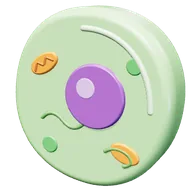
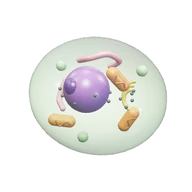
Símbolos modelados en 3D real (11 más): llave española, tuerca, vaso con agua, diván, pelota de terapia, rodillo, liga con agarraderas, tubo de ensayo, célula, megáfono y pincel

diff --git a/datos/simbolos3d/models.js b/datos/simbolos3d/models.js
@@ -21,6 +21,9 @@ export function kit(material,g){
     tube(pts,r,c,o){o=o||{};const v=pts.map(p=>new THREE.Vector3(p[0],p[1],p[2]||0));const path=new THREE.CatmullRomCurve3(v,!!o.closed,'catmullrom',o.tension==null?0.5:o.tension);
       const m=add(new THREE.TubeGeometry(path,Math.max(24,v.length*12),r,18,!!o.closed),c,o.m,o);
       if(!o.closed&&!o.nocap)[v[0],v[v.length-1]].forEach(p=>add(new THREE.SphereGeometry(r,18,12),c,o.m,{p:[p.x,p.y,p.z],parent:o.parent}));return m},
+    shape(outer,holes,depth,c,o){o=o||{};const sh=new THREE.Shape(outer.map(p=>new THREE.Vector2(p[0],p[1])));(holes||[]).forEach(h=>sh.holes.push(new THREE.Path(h.map(p=>new THREE.Vector2(p[0],p[1])))));
+      const bv=o.bevel==null?Math.min(1.5,depth*0.25):o.bevel;const geo=new THREE.ExtrudeGeometry(sh,{depth:depth,bevelEnabled:bv>0,bevelThickness:bv,bevelSize:bv*0.8,bevelSegments:4,curveSegments:24});geo.translate(0,0,-depth/2);return add(geo,c,o.m,o)},
+    cap(r,len,c,o){o=o||{};return add(new THREE.CapsuleGeometry(r,len,8,20),c,o.m,o)},
     // extrusión de un contorno 2D (en coordenadas con y hacia arriba), centrada en z
     ext(d,depth,c,o){o=o||{};const data=new SVGLoader().parse('<svg xmlns="http://www.w3.org/2000/svg"><path transform="scale(1,-1)" d="'+d+'"/></svg>');const shapes=[];data.paths.forEach(p=>SVGLoader.createShapes(p).forEach(s=>shapes.push(s)));
       const bv=o.bevel==null?Math.min(2,depth*0.3):o.bevel;
@@ -31,9 +34,108 @@ export function kit(material,g){
   return K;
 }
 
-const GY='#8C96A0',ST='#A9B6C2',BK='#3A4048',WH='#F3F1EA',RE='#DE4A3C',BL='#3F82C4',GR='#4FAE5B',YE='#F6CD3B',BR='#8A5A36',WO='#B9804B',GO='#E8B53C',NA='#2D4A6E',CR='#F0E2C2',SK='#E7A97C';
+const PU='#8E5BB5';const GY='#8C96A0',ST='#A9B6C2',BK='#3A4048',WH='#F3F1EA',RE='#DE4A3C',BL='#3F82C4',GR='#4FAE5B',YE='#F6CD3B',BR='#8A5A36',WO='#B9804B',GO='#E8B53C',NA='#2D4A6E',CR='#F0E2C2',SK='#E7A97C';
 
+const circ=(cx,cy,r,n,a0,a1)=>{a0=a0==null?0:a0;a1=a1==null?Math.PI*2:a1;const o=[];for(let i=0;i<n;i++){const a=a0+(a1-a0)*i/(n-(Math.abs(a1-a0-Math.PI*2)<1e-6?0:1));o.push([cx+Math.cos(a)*r,cy+Math.sin(a)*r])}return o};
 export const MODELS={
+  // Llave española: boca abierta inclinada 15° arriba, estrella cerrada abajo, mango con rebaje
+  'mecanica.a'(K){
+    const g=K.group({r:[0,0,-40]});
+    K.box(10,50,5,ST,{m:'metal',rad:2.4,parent:g});
+    [2.7,-2.7].forEach(z=>K.box(5,30,0.6,'#8994A0',{m:'metal',p:[0,0,z],rad:0.3,parent:g}));
+    const R=13,w=6.2,a0=Math.acos(w/R);const outer=[];
+    for(let i=0;i<=40;i++){const a=a0-i/40*(Math.PI*2-(Math.PI-2*a0));outer.push([Math.cos(a)*R,Math.sin(a)*R])}
+    outer.push([-w,0]);for(let i=1;i<20;i++){const a=Math.PI+i/20*Math.PI;outer.push([Math.cos(a)*w,Math.sin(a)*w])}outer.push([w,0]);
+    const h1=K.group({p:[0,32,0],r:[0,0,15],parent:g});K.shape(outer,null,5,ST,{m:'metal',bevel:1,parent:h1});
+    K.box(9,10,5,ST,{m:'metal',p:[0,24,0],rad:2,parent:g});
+    const star=[];for(let i=0;i<24;i++){const a=i/24*Math.PI*2;const r=i%2?5.4:6.6;star.push([Math.cos(a)*r,Math.sin(a)*r])}
+    const h2=K.group({p:[0,-32,0],parent:g});K.shape(circ(0,0,11,48),[star],5,ST,{m:'metal',bevel:1,parent:h2});
+    K.box(9,10,5,ST,{m:'metal',p:[0,-23,0],rad:2,parent:g});
+  },
+  // Tuerca hexagonal con chaflán y rosca interior
+  'mecanica.b'(K){
+    const hex=circ(0,0,30,6,Math.PI/6,Math.PI/6+Math.PI*2);
+    K.shape(hex,[circ(0,0,12,48)],16,ST,{m:'metal',bevel:2.6});
+    for(let i=0;i<6;i++)K.tor(12,0.9,'#7C8792',{m:'metal',p:[0,0,-7.5+i*3]});
+  },
+  // Vaso de vidrio con agua y popote
+  'o_vaso.a'(K){
+    K.lathe([[0.01,-30],[19,-30],[20,-29],[24,30],[22.6,30.6],[21.4,30],[17.6,-27],[0.01,-27]],'#EEF8FC',{m:'glass'});
+    K.cyl(20.2,17.4,40,'#8FD0F2',{p:[0,-7,0]});
+    K.tube([[6,-22,2],[14,20,-2],[18,44,-4]],1.8,'#E2683E',{});
+  },
+  // Diván de psicoanálisis
+  'o_divan.a'(K){
+    [[-34,-11],[-34,11],[34,-11],[34,11]].forEach(([x,z])=>K.lathe([[0.01,-30],[2.4,-30],[3.4,-26],[2.2,-22],[3,-19],[0.01,-18]],'#6E4426',{m:'wood',p:[x,8,z]}));
+    K.box(82,8,28,'#6E3528',{p:[0,-8,0],rad:2});
+    K.box(80,9,26,'#8E4A3A',{p:[0,0,0],rad:4});
+    K.box(28,10,26,'#8E4A3A',{p:[-30,10,0],r:[0,0,35],rad:4});
+    for(let x=-16;x<=32;x+=12)[-6,6].forEach(z=>K.sph(1,'#5E2A1E',{p:[x,4.6,z]}));
+    K.sph(9,'#E9D8B4',{p:[-28,16,0],s:[1.2,0.55,1.1],r:[0,0,35]});
+    K.box(30,0.8,26.4,'#C9A04A',{p:[16,4.8,0],rad:0.3});K.box(30,12,0.8,'#C9A04A',{p:[16,-1,13.5],rad:0.3});
+    for(let x=3;x<=29;x+=3)K.cyl(0.35,0.35,3,'#E3C26A',{p:[x,-8.5,13.6]});
+  },
+  // Pelota de terapia con costuras de gajos y válvula
+  'o_pelota.a'(K){
+    K.sph(32,'#5FC4B4');
+    [0,45,90,135].forEach(a=>K.tor(32.05,0.45,'#BFEDE6',{r:[0,a,0]}));
+    K.cyl(2.2,2.6,2.4,'#3E9E8E',{p:[0,32.6,0]});
+  },
+  // Rodillo de espuma con relieve y centro hueco
+  'o_rodillo.a'(K){
+    K.cyl(14,14,64,'#5B8DD6',{r:[0,0,90]});
+    K.cyl(6,6,64.6,'#2E4E86',{r:[0,0,90]});
+    for(let i=0;i<8;i++){for(let j=0;j<12;j++){const q=K.group({p:[-28+i*8,0,0],r:[j*30+(i%2)*15,0,0]});K.box(4.2,2.4,4.2,'#6E9FE4',{p:[0,14.4,0],rad:1,parent:q})}}
+  },
+  // Liga de resistencia con dos agarraderas
+  'o_liga2.a'(K){
+    const band=[[-30,16,0],[-16,26,6],[2,18,10],[16,2,4],[26,-14,-4],[30,-24,-6]];
+    K.tube(band,2.2,'#4FB6A8',{});
+    const handle=(A,d)=>{const L=Math.hypot(d[0],d[1]);const ux=d[0]/L,uy=d[1]/L,px=-uy,py=ux;const G=[A[0]+ux*13,A[1]+uy*13,A[2]];
+      const E1=[G[0]+px*8,G[1]+py*8,G[2]],E2=[G[0]-px*8,G[1]-py*8,G[2]];
+      K.tube([A,E1],1.1,'#3A4048',{});K.tube([A,E2],1.1,'#3A4048',{});
+      K.cyl(3.8,3.8,15,'#2B3540',{p:G,r:[0,0,Math.atan2(py,px)*180/Math.PI-90]});K.sph(2.2,'#5B6670',{m:'metal',p:A})};
+    handle(band[0],[-1,0.6]);handle(band[band.length-1],[0.3,-1]);
+  },
+  // Tubo de ensayo de vidrio con líquido y burbujas
+  'quimica.b'(K){
+    const g=K.group({r:[0,0,-12]});
+    K.lathe([[0.01,-30],[5,-29],[8,-25],[9,-20],[9,32],[10.6,33],[10.6,34.6],[8.2,34.2],[8,-20],[7,-25],[4.4,-28],[0.01,-28.6]],'#E6F4FA',{m:'glass',parent:g});
+    K.lathe([[0.01,-28.2],[4.2,-27.4],[6.8,-24.6],[7.7,-20],[7.7,6],[4,6.6],[0.01,7]],BL,{parent:g});
+    [[2,-12,2],[-2,-4,1],[1,2,-2]].forEach(p=>K.sph(1.4,'#CFE9FA',{p,parent:g}));
+    [12,18,24].forEach(y=>K.box(4,0.6,0.5,'#FFFFFF',{p:[-1,y,8.9],rad:0.2,parent:g}));
+  },
+  // Célula: membrana transparente con núcleo, mitocondrias, retículo, Golgi, ribosomas y vesículas
+  'biologia.b'(K){
+    K.sph(36,'#B9E6A8',{m:'membrane',s:[1.1,0.9,0.85]});
+    K.sph(13,PU,{p:[-6,3,0]});K.sph(5,'#5A2E7E',{p:[-9,6,9]});
+    [[16,12,6,30],[18,-12,-4,-40],[-20,-16,4,70]].forEach(([x,y,z,a])=>{const m=K.group({p:[x,y,z],r:[20,30,a]});K.cap(3.4,9,'#F08A2E',{parent:m});K.tube([[0,-5,3],[1.5,-2,3.3],[-1.5,1,3.3],[1.5,4,3]],0.5,'#B85E1A',{parent:m,nocap:true})});
+    K.tube([[6,16,-6],[12,20,-4],[8,24,2],[0,22,6],[-8,20,4]],1.6,'#E58AA0',{});
+    K.tube([[-22,6,-4],[-24,-4,0],[-18,-8,6]],1.6,'#E58AA0',{});
+    [0,1,2].forEach(i=>K.tor(9-i*1.6,1,YE,{p:[22,0,-8+i*3.4],arc:150,r:[0,0,100]}));
+    for(let i=0;i<14;i++){const a=i*2.4,r=24;K.sph(0.9,'#3A4048',{p:[Math.cos(a)*r*0.9,Math.sin(a*1.3)*16,Math.sin(a)*14]})}
+    [[-4,-22,8],[26,16,-2],[-26,14,-6]].forEach(p=>K.sph(3,'#9BD58A',{p}));
+  },
+  // Megáfono: campana con rejilla y aro, cuerpo, tapa trasera, mango y gatillo
+  'mercadotecnia.a'(K){
+    K.cyl(22,8,36,RE,{p:[14,0,0],r:[0,0,-90]});
+    K.cyl(19.6,19.6,1,'#2B3540',{p:[32.3,0,0],r:[0,0,-90]});
+    K.tor(21,2,'#F3F1EA',{p:[32,0,0],r:[0,90,0]});
+    K.cyl(9,9,22,RE,{p:[-14,0,0],r:[0,0,90]});
+    K.cyl(9.6,9.6,5,'#E6E6E6',{p:[-27,0,0],r:[0,0,90]});
+    K.box(9,24,8,BK,{p:[-12,-17,0],r:[0,0,-14],rad:3});
+    K.box(4,8,4,'#5B6670',{p:[-5,-11,0],rad:1.2});
+  },
+  // Pincel: mango de madera, virola metálica con pliegues y cerdas con pintura
+  'grafico.b'(K){
+    const g=K.group({r:[0,0,-35]});
+    K.lathe([[0.01,52],[2.6,51],[3.4,46],[4.6,20],[5.2,8],[0.01,8]],'#C68A4E',{m:'wood',parent:g});
+    K.cyl(5.2,5.6,14,ST,{m:'metal',p:[0,1,0],parent:g});
+    [4,-2].forEach(y=>K.tor(5.5,0.5,'#8994A0',{m:'metal',p:[0,y,0],r:[90,0,0],parent:g}));
+    K.lathe([[0.01,-6],[5.6,-6],[6.6,-14],[6.5,-18],[0.01,-18.5]],'#E8D3A6',{parent:g});
+    K.lathe([[0.01,-17.5],[6.5,-18],[6,-24],[3.6,-32],[0.01,-38]],RE,{parent:g});
+  },
+
   // Estetoscopio: olivas, tubos metálicos en Y, manguera y campana con diafragma
   'medicina.a'(K){
     K.sph(3.4,BK,{p:[-16,60,4]});K.sph(3.4,BK,{p:[16,60,4]});
@@ -161,15 +263,7 @@ export const MODELS={
   },
 
   // Llave perica con quijadas y tornillo sinfín
-  'mecanica.a'(K){
-    const g=K.group({r:[0,0,-40]});
-    K.box(11,58,6,ST,{m:'metal',rad:3,parent:g});
-    K.tor(11,4.6,ST,{m:'metal',p:[0,40,0],arc:270,r:[0,0,-45],s:[1,1,0.7],parent:g});
-    K.box(10,8,6,ST,{m:'metal',p:[0,30,0],rad:2,parent:g});
-    K.tor(9,4,ST,{m:'metal',p:[0,-38,0],arc:270,r:[0,0,135],s:[1,1,0.75],parent:g});
-    K.box(10,8,6,ST,{m:'metal',p:[0,-29,0],rad:2,parent:g});
-    [3.2,-3.2].forEach(z=>K.box(5,30,0.6,'#7C8792',{m:'metal',p:[0,0,z],rad:0.3,parent:g}));
-  },
+
 
 
 

diff --git a/datos/simbolos3d/render.html b/datos/simbolos3d/render.html
@@ -24,6 +24,7 @@ function material(col,m){const c=new THREE.Color(col);
  const hsl={};c.getHSL(hsl);if(m==='gold'||m==='metal'&&hsl.s>0.4&&hsl.h>0.08&&hsl.h<0.17)return new THREE.MeshPhysicalMaterial({color:new THREE.Color().setHSL(0.115,0.95,0.55),metalness:0.5,roughness:0.22,clearcoat:0.5,envMapIntensity:1.1,emissive:new THREE.Color(0x4a2e00),emissiveIntensity:0.5});
  if(m==='metal')return new THREE.MeshPhysicalMaterial({color:c,metalness:0.85,roughness:0.22,clearcoat:0.3,envMapIntensity:1.3});
  if(m==='glass')return new THREE.MeshPhysicalMaterial({color:c,metalness:0,roughness:0.06,transmission:0.75,thickness:6,ior:1.45,transparent:true,opacity:0.92,envMapIntensity:1.4});
+ if(m==='membrane')return new THREE.MeshPhysicalMaterial({color:c,roughness:0.15,clearcoat:1,transparent:true,opacity:0.32,depthWrite:false,side:THREE.DoubleSide});
  if(m==='wood')return new THREE.MeshStandardMaterial({color:c,roughness:0.62,metalness:0});
  return new THREE.MeshPhysicalMaterial({color:c,roughness:0.32,metalness:0,clearcoat:0.55,clearcoatRoughness:0.25});}
 function shapesOf(d,t){const svg='<svg xmlns="http://www.w3.org/2000/svg"><path d="'+d+'"'+(t?' transform="'+t+'"':'')+'/></svg>';const data=loader.parse(svg);const out=[];data.paths.forEach(p=>{SVGLoader.createShapes(p).forEach(s=>out.push(s))});return out}
